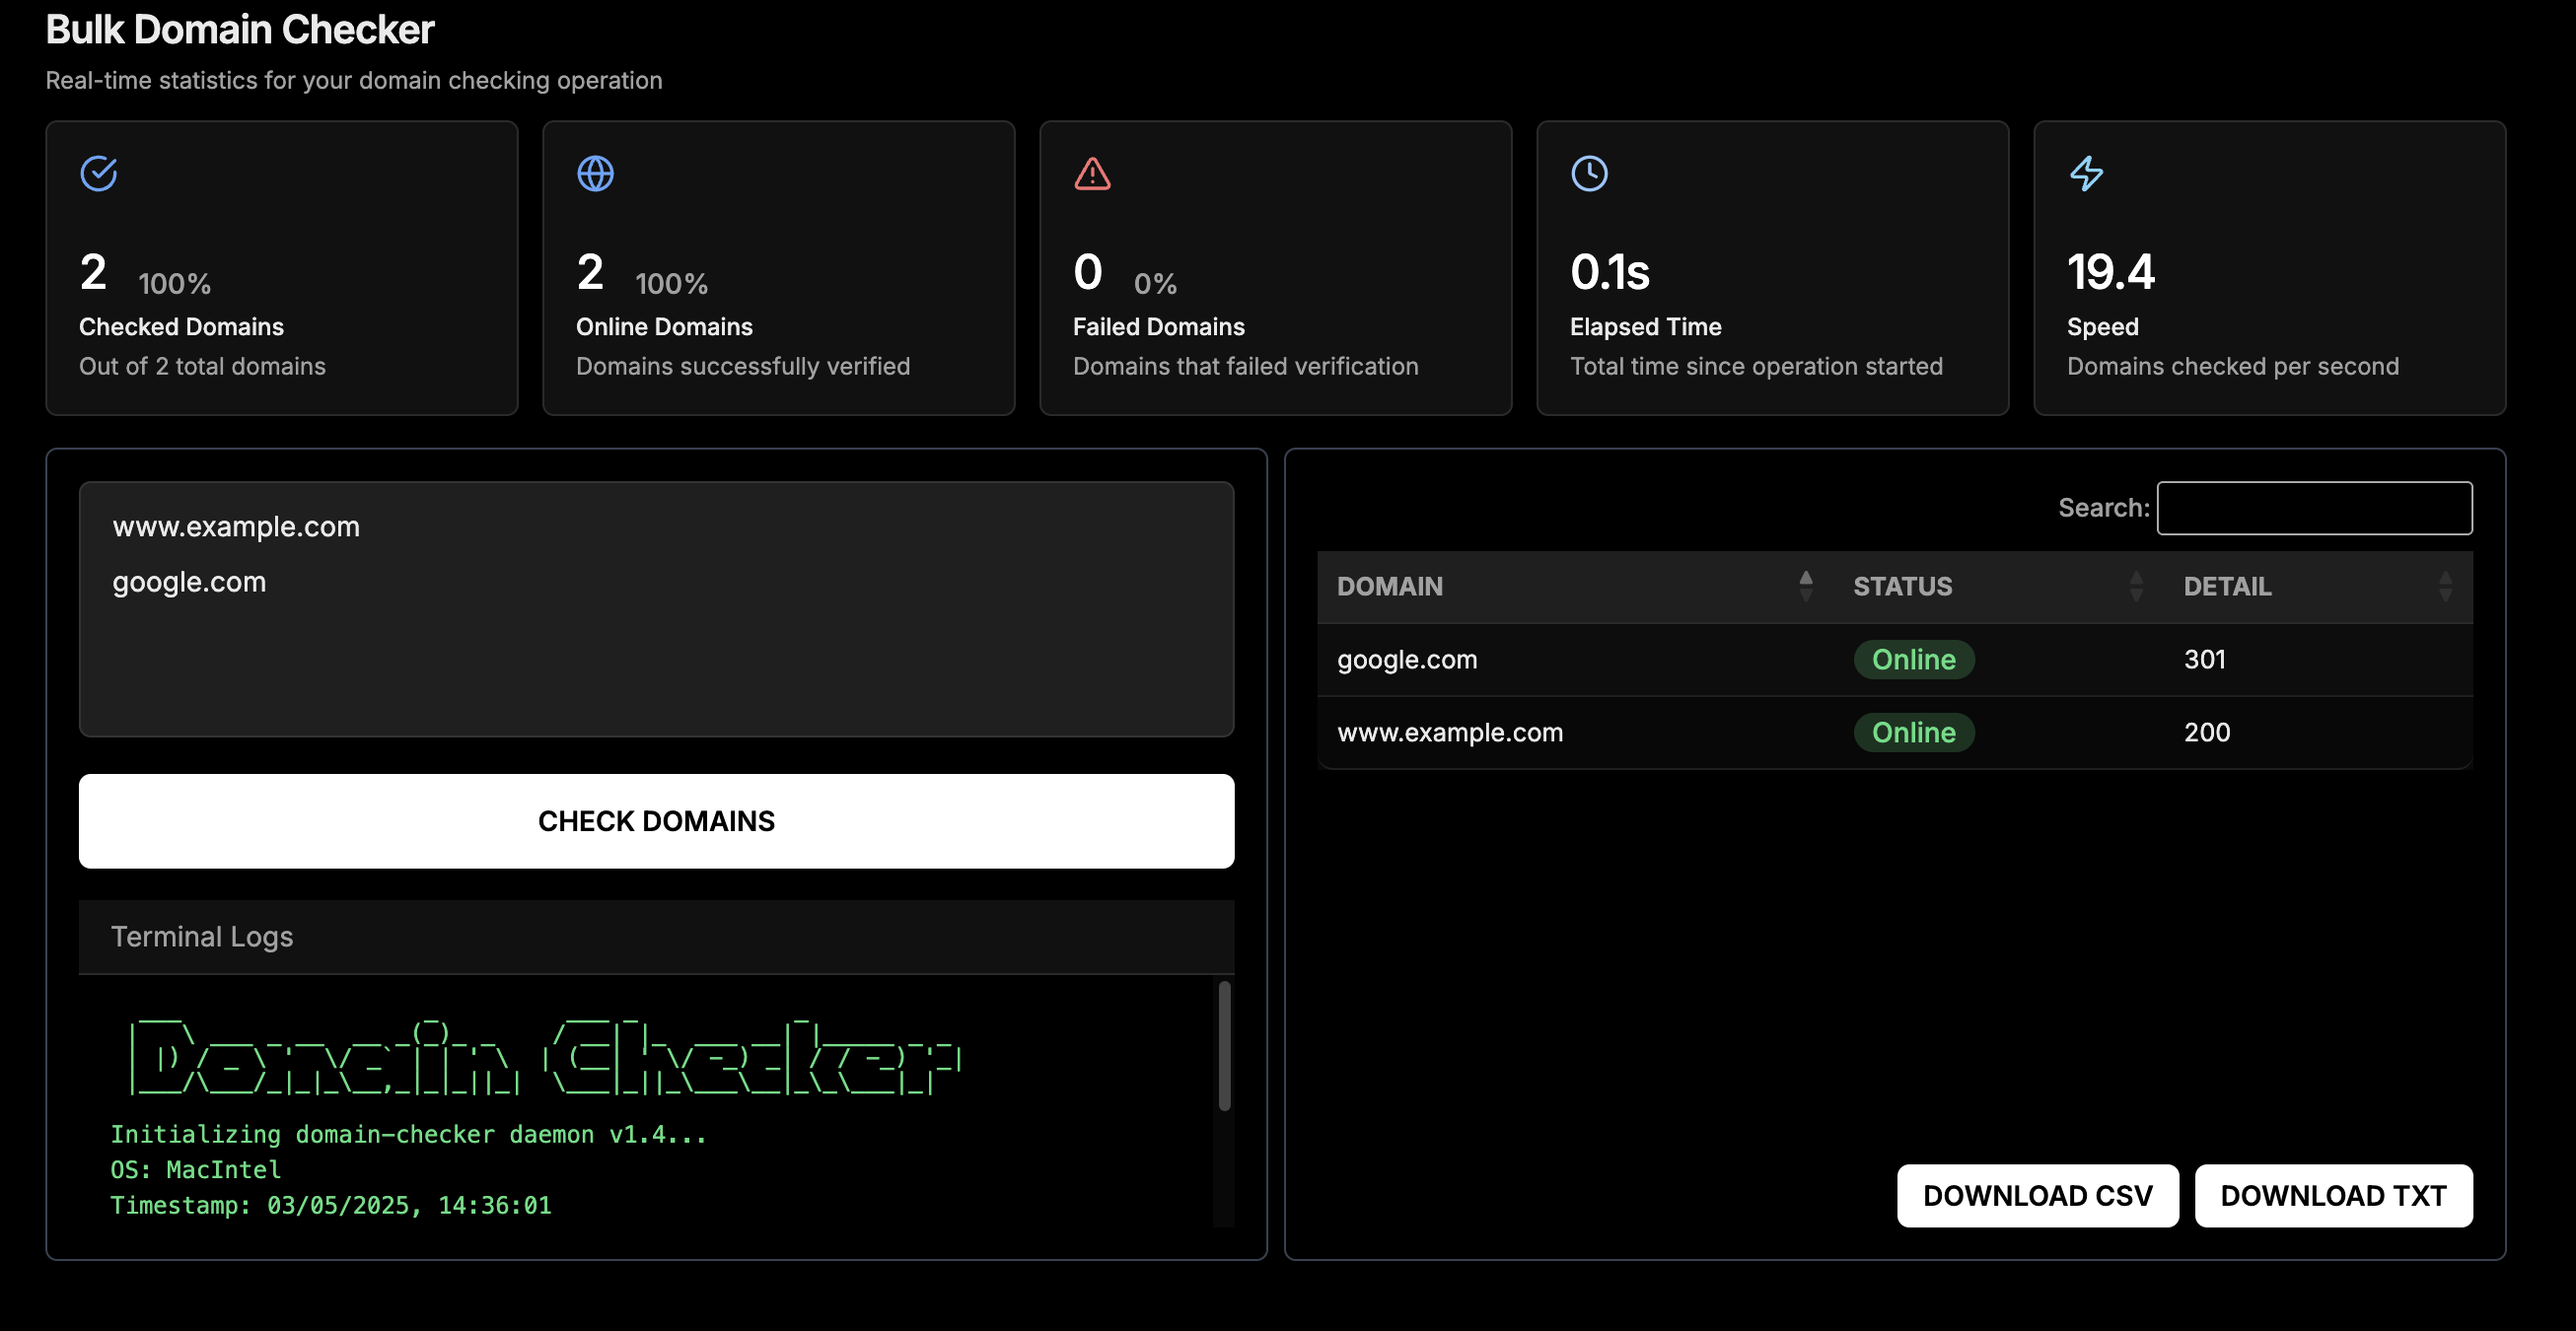
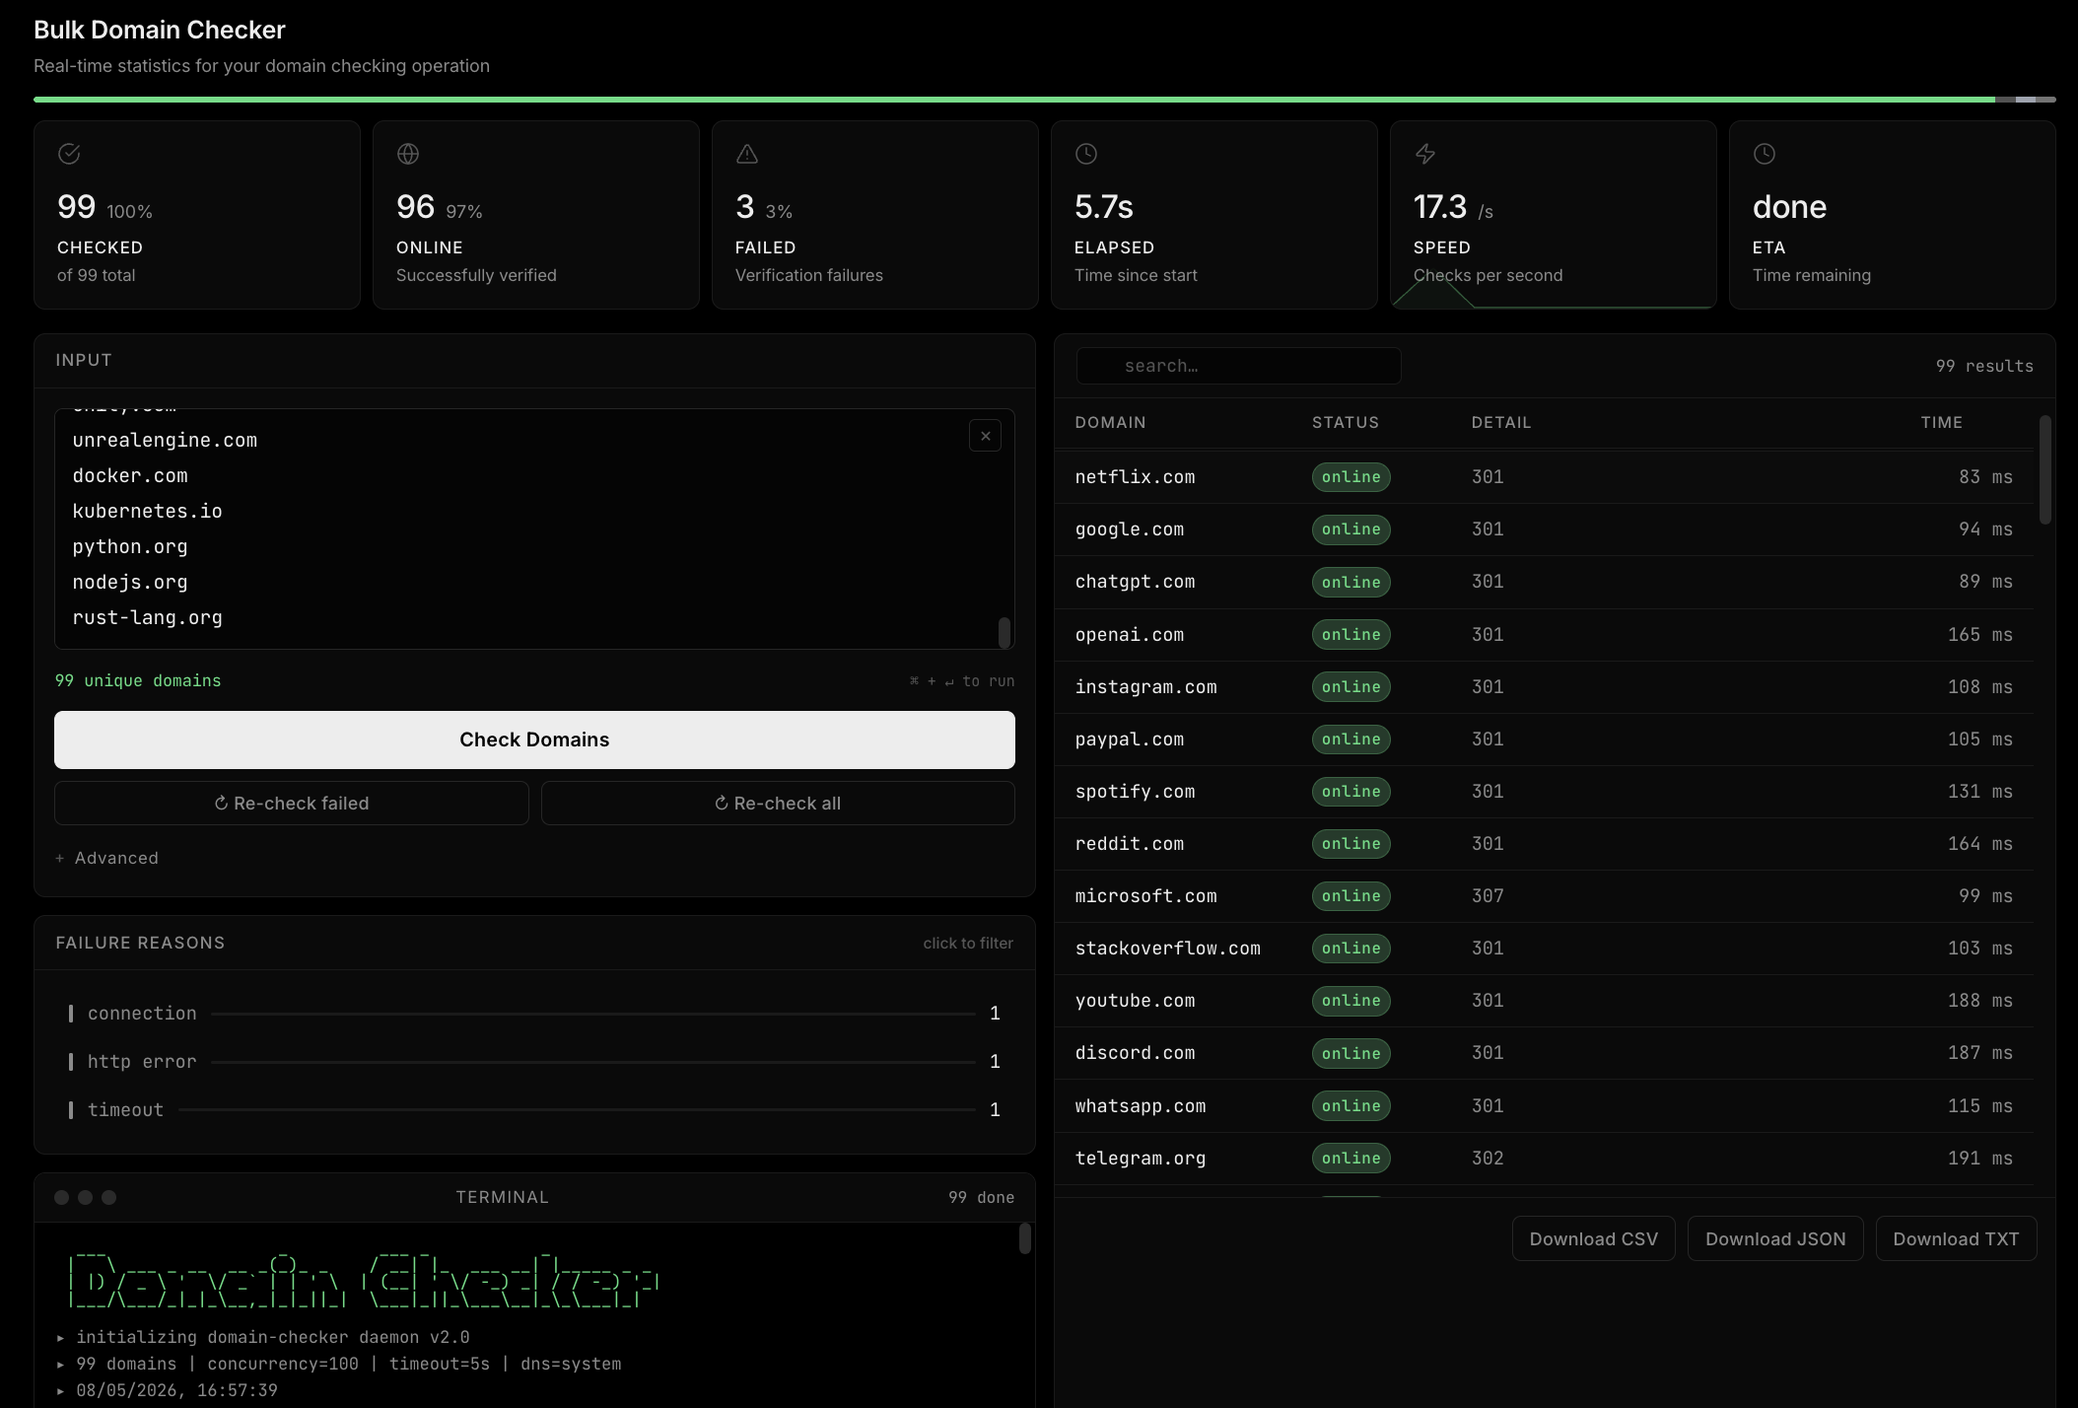
docs: rewrite README and refresh screenshot for the new app flow

diff --git a/README.md b/README.md
@@ -1,131 +1,290 @@
-# Domain Responsiveness Checker
+<div align="center">
+  <img src="Demo.png" alt="Bulk Domain Checker web UI">
 
-A Python application with both a web interface and a command-line tool to check the responsiveness of a list of domains.
+  <h1>What Is Bulk Domain Checker?</h1>
 
-![Web UI Demo](Demo.png)
+  <p>Bulk Domain Checker checks large hostname lists from a browser or the command line. It streams results as they arrive, reports protocol and timing data, and helps separate DNS failures from HTTP, TLS, timeout, and connection problems.</p>
 
-It determines if a domain is responsive by checking:
-1.  HTTPS and HTTP status codes (success or redirect indicates responsiveness).
-2.  TCP connection success on ports 443 and 80 (indicates responsiveness).
-3.  DNS resolution success (indicates responsiveness).
+  <p>It uses FastAPI, httpx, Rich, and a lightweight static frontend. The web app streams newline-delimited JSON for live updates, while the CLI supports both terminal output and machine-readable NDJSON.</p>
 
-If all checks fail, the domain is considered unresponsive.
+  <p>
+    <a href="#what-you-get">What You Get</a> •
+    <a href="#feature-tour">Feature Tour</a> •
+    <a href="#prerequisites">Prerequisites</a> •
+    <a href="#quick-start">Quick Start</a> •
+    <a href="#cli-usage">CLI Usage</a> •
+    <a href="#http-api">HTTP API</a> •
+    <a href="#project-layout">Project Layout</a>
+  </p>
+</div>
 
-## Features
+## What You Get
 
-*   **Dual Interface:** Use via a web UI (Flask/Uvicorn) or a command-line script.
-*   **Bulk Domain Checking:** Input multiple domains for concurrent checking.
-*   **Multiple Check Methods:** Uses HTTP GET, TCP connect, and DNS resolution for comprehensive checks.
-*   **Real-time Updates (Web UI):** View results streamed to a table and log panel.
-*   **Detailed Results:** Shows domain status (e.g., Online, Offline, Error) and the reason (e.g., HTTP status, TCP connect, DNS resolution, specific error).
-*   **Performance Metrics (Web UI):** Displays progress, counts, elapsed time, and check speed.
-*   **Download Results (Web UI):** Export check results as CSV or TXT files.
-*   **Formatted Output (CLI):** Displays results in a clear table using Rich, with a summary and breakdown.
-*   **Logging (CLI):** Saves detailed results to a log file (`domain_check.log` by default).
+Bulk Domain Checker focuses on practical batch verification, not just a pretty table.
+
+- Browser UI and CLI backed by the same checker engine
+- Streaming results with status, detail, protocol, and elapsed time
+- `system` DNS and public-resolver `direct` DNS for local-vs-public diagnostics
+- Failure grouping for DNS, timeout, connection, SSL/TLS, HTTP, and other errors
+- Proxy-aware and CA-aware HTTP checks that respect `HTTP_PROXY`, `HTTPS_PROXY`, `NO_PROXY`, `SSL_CERT_FILE`, and `SSL_CERT_DIR`
+- Search, sort, copy, and failure-only re-check workflows
+- CSV, JSON, and TXT exports
+- Saved browser input, settings, and recent results in `localStorage`
+- Simple NDJSON API for scripting and internal tools
+
+## Feature Tour
+
+### Resolver Modes That Answer Different Questions
+
+Bulk Domain Checker supports two DNS modes because the resolver path matters.
+
+- `system` uses `socket.getaddrinfo()` and is useful for local-network checks
+- `direct` uses `aiodns` / c-ares against `1.1.1.1`, `8.8.8.8`, and `9.9.9.9`
+
+This makes it easier to tell whether a failure starts in local DNS handling or after resolution.
+
+### HTTPS Checks That Match Browser Reality
+
+- HTTPS is tried first because that is the path browsers use first for most modern sites
+- SSL and certificate failures surface as `ssl` results instead of getting hidden by an HTTP redirect
+- Proxy and CA environment settings are honoured, so corp-network checks match what users actually see in a browser
+
+### Live Batch Feedback
+
+- Results stream into the browser as each domain finishes instead of waiting for the whole batch
+- The dashboard tracks checked count, online rate, failure count, elapsed time, throughput, and ETA
+- Failure categories stay filterable during a run, which helps spot patterns inside large lists
+
+### Fast Follow-Up Work
+
+- Re-run only failed domains after a batch completes
+- Export the active result set as CSV, JSON, or TXT
+- Click any result row to copy the hostname
+
+### CLI and Automation
+
+- Read domains from a plain text file
+- Keep Rich table output for manual review
+- Switch to NDJSON with `--json` when the output feeds another tool
+- Write a plain text log file alongside the terminal summary
+
+## How It Checks a Domain
+
+Each hostname goes through the same pipeline:
+
+1. Input is normalized to a hostname while preserving the literal host the user entered.
+2. DNS resolution runs first using the selected resolver mode.
+3. HTTPS is checked first with `HEAD`.
+4. A `405 Method Not Allowed` response retries the same URL with `GET`.
+5. If HTTPS fails with an SSL or certificate error, the result is reported as `ssl`.
+6. If HTTPS fails with a connection-class error, HTTP is tried as a fallback for HTTP-only hosts.
+7. A response with status `< 400` marks the domain as online.
+8. Otherwise the result falls back to the most useful failure reason that was observed.
+
+This produces a result object with:
+
+- `domain`
+- `ok`
+- `detail`
+- `category`
+- `status_code`
+- `elapsed_ms`
+- `protocol`
 
 ## Prerequisites
 
-*   Python 3.8+ (due to `asyncio` and `httpx` usage)
-*   pip (Python package installer)
+Install these before the first run:
 
-## Installation
+- Python 3.10+
+- `pip`
+- A modern browser if you want the web UI
 
-1.  **Clone the repository:**
-    ```bash
-    # Replace <your-repository-url> with the actual URL
-    git clone <your-repository-url>
-    cd <repository-directory-name>
-    ```
-2.  **Create and activate a virtual environment (recommended):**
-    *   On macOS/Linux:
-        ```bash
-        python3 -m venv venv
-        source venv/bin/activate
-        ```
-    *   On Windows (Command Prompt):
-        ```bash
-        python -m venv venv
-        .\venv\Scripts\activate.bat
-        ```
-    *   On Windows (PowerShell):
-        ```bash
-        python -m venv venv
-        .\venv\Scripts\Activate.ps1
-        ```
-3.  **Install the required Python packages:**
-    ```bash
-    pip install -r requirements.txt
-    ```
-    *(See `requirements.txt` for details on the libraries used.)*
+There is no frontend build step. The web app serves the files in `templates/` and `static/` directly.
 
-## Running the Application
+## Quick Start
 
-You can run either the Web UI or the Command-Line Interface.
+### 1. Install dependencies
 
-### Web UI
+**macOS / Linux**
 
-1.  **Start the server:**
-    ```bash
-    # This uses uvicorn to run the Flask app via an ASGI adapter
-    python app.py
-    ```
-    The server will typically start on `http://127.0.0.1:8000` (check terminal output).
+```bash
+python3 -m venv .venv
+source .venv/bin/activate
+pip install -r requirements.txt
+```
 
-2.  **Access the application:**
-    Open your web browser and navigate to the address shown in the terminal.
+**Windows PowerShell**
 
-3.  **Usage:**
-    *   Enter domains (one per line or space-separated) into the text area.
-    *   Click "Check Domains".
-    *   Results stream into the table and log panel.
-    *   Use download buttons for CSV/TXT export.
+```powershell
+python -m venv .venv
+.\.venv\Scripts\Activate.ps1
+pip install -r requirements.txt
+```
 
-### Command-Line Interface (CLI)
+### 2. Start the web app
 
-1.  **Prepare an input file:**
-    Create a text file (e.g., `domains.txt`) with one domain per line.
-    ```
-    google.com
-    github.com
-    this-domain-probably-does-not-exist-asdfjkl.com
-    microsoft.com
-    ```
+```bash
+python app.py
+```
 
-2.  **Run the script:**
-    ```bash
-    python check_domains.py <your-domain-file.txt> [options]
-    ```
-    *   Replace `<your-domain-file.txt>` with the path to your file (e.g., `domains.txt`).
-    *   **Options:**
-        *   `--timeout <seconds>`: Set the timeout for checks (default: 5).
-        *   `--workers <number>`: Set the max concurrent checks (default: 100).
-        *   `--log-file <path>`: Specify the output log file path (default: `domain_check.log`).
+Open `http://127.0.0.1:8000`.
 
-    **Example:**
-    ```bash
-    python check_domains.py domains.txt --workers 50 --timeout 10
-    ```
+### 3. Run a check
 
-3.  **Output:**
-    *   Results are printed to the console in formatted tables.
-    *   A detailed log is saved to the specified log file.
+- Paste hostnames into the input box, one per line, or drop a `.txt`, `.csv`, or JSON file
+- Pick timeout, concurrency, and DNS mode if needed
+- Start the run and export the results you want to keep
 
-## Technologies Used
+## CLI Usage
 
-*   **Backend:** Python, Flask (Web UI), Uvicorn (ASGI Server), httpx (HTTP Client), asyncio
-*   **Frontend:** HTML, CSS (Tailwind CSS via CDN), JavaScript, DataTables.js
-*   **CLI:** Python, argparse, httpx, asyncio, Rich (Tables/Formatting), tqdm (Progress Bar)
+Create an input file with one hostname per line:
 
-## How it Works
+```text
+example.com
+github.com
+bad.example
+```
 
-The `check_domains.py` script contains the core logic:
+Run the checker:
 
-1.  It takes a domain and first tries `HTTPS GET`, then `HTTP GET` (without following redirects).
-2.  If a status code < 400 (Success or Redirect) is received, the domain is marked as **Online**.
-3.  If HTTP checks fail, it attempts a direct TCP connection to the host on port 443, then port 80. Success marks it as **Online**.
-4.  If TCP checks fail, it attempts DNS resolution. Success marks it as **Online** (with a note that only DNS resolved).
-5.  If all checks fail, the domain is marked as **Offline**, reporting the last known error.
+```bash
+python check_domains.py domains.txt
+```
 
-The `app.py` provides a Flask web interface that calls the checking logic via `run_stream` (an async generator) and streams results back to the browser using a background thread and queue mechanism compatible with Flask/Uvicorn.
+Useful examples:
 
+```bash
+python check_domains.py domains.txt --workers 250 --timeout 8
+python check_domains.py domains.txt --dns-mode direct
+python check_domains.py domains.txt --json > results.ndjson
+python check_domains.py domains.txt --log-file scan.log
+```
 
+### CLI Flags
+
+| Flag | Default | Description |
+| --- | --- | --- |
+| `file` | required | Path to a text file containing hostnames |
+| `--timeout` | `5.0` | Per-check timeout in seconds |
+| `--workers` | `100` | Maximum concurrent checks |
+| `--log-file` | `domain_check.log` | Plain text output log |
+| `--json` | off | Emit NDJSON to stdout instead of Rich tables |
+| `--dns-mode` | `system` | Resolver mode: `system` or `direct` |
+
+## DNS Modes
+
+### `system`
+
+Use this mode when the question is "does this hostname resolve through the resolver path available on this machine?"
+
+Typical use cases:
+
+- local workstation validation
+- VPN or office-network checks
+- hosts-file overrides
+- resolver-specific troubleshooting
+
+### `direct`
+
+Use this mode when the question is "what do public DNS resolvers return for this hostname?"
+
+Typical use cases:
+
+- comparing public DNS answers against the machine's configured resolver path
+- bypassing `/etc/hosts` and local DNS overrides
+- narrowing down whether the difference starts at DNS resolution or later in the network path
+- checking hosts that may resolve on `A` or `AAAA`
+
+Bulk Domain Checker queries Cloudflare `1.1.1.1`, Google `8.8.8.8`, and Quad9 `9.9.9.9` directly in this mode.
+
+## HTTP API
+
+### `GET /health`
+
+Returns a simple health payload:
+
+```json
+{"status":"ok"}
+```
+
+### `POST /check`
+
+Starts a streamed batch check and returns `application/x-ndjson`.
+
+Request body:
+
+```json
+{
+  "domains": ["example.com", "github.com"],
+  "timeout": 5,
+  "workers": 100,
+  "dns_mode": "system"
+}
+```
+
+Example request:
+
+```bash
+curl -N http://127.0.0.1:8000/check \
+  -H "Content-Type: application/json" \
+  -d '{"domains":["example.com","github.com"],"timeout":5,"workers":100,"dns_mode":"system"}'
+```
+
+Example streamed line:
+
+```json
+{"domain":"example.com","ok":true,"detail":"301","category":"online","status_code":301,"elapsed_ms":82.4,"protocol":"https"}
+```
+
+### Response Fields
+
+| Field | Type | Meaning |
+| --- | --- | --- |
+| `domain` | `string` | Hostname that was checked |
+| `ok` | `boolean` | `true` when a qualifying HTTP response is found |
+| `detail` | `string` | Human-readable status or failure detail |
+| `category` | `string` | Result bucket such as `online`, `dns`, `timeout`, `connection`, `ssl`, or `http_error` |
+| `status_code` | `number \| null` | HTTP status code when available |
+| `elapsed_ms` | `number \| null` | Request timing in milliseconds when available |
+| `protocol` | `string \| null` | `https` or `http` when available |
+
+## Troubleshooting
+
+- `system` fails and `direct` succeeds: the two resolver paths disagree, which points back to DNS handling on the current machine before the HTTP checks even begin.
+- Both modes fail with DNS errors: the hostname does not resolve through either resolver path.
+- DNS succeeds but HTTPS fails with `ssl`: the hostname resolves, but the browser-facing TLS configuration is broken.
+- DNS succeeds but HTTP fails: the result category points at the next problem layer, usually timeout, connection, TLS, or HTTP status.
+- Results on corp networks follow `HTTP_PROXY`, `HTTPS_PROXY`, `NO_PROXY`, `SSL_CERT_FILE`, and `SSL_CERT_DIR`, so proxy and internal CA behavior is part of the final answer.
+- The browser UI restores the last saved run automatically when a saved result set is available in `localStorage`.
+
+## Tech Stack
+
+- FastAPI + Uvicorn for the web server
+- `httpx` with HTTP/2 enabled for protocol checks
+- `aiodns` for direct DNS mode
+- Rich + tqdm for CLI output
+- Static HTML, Tailwind via CDN, and vanilla JavaScript for the frontend
+- `uvloop` on supported Unix systems for faster event-loop performance
+
+## Project Layout
+
+```text
+.
+├── app.py
+├── check_domains.py
+├── requirements.txt
+├── static/
+│   ├── icon.svg
+│   └── script.js
+├── templates/
+│   └── index.html
+├── Demo.png
+└── README.md
+```
+
+### Important Files
+
+- `app.py` exposes the FastAPI app and streamed `/check` endpoint
+- `check_domains.py` contains the resolver logic, HTTP checks, CLI entrypoint, and result model
+- `static/script.js` drives the live dashboard, exports, filtering, re-check flows, and persistence
+- `templates/index.html` contains the web UI shell and styles
